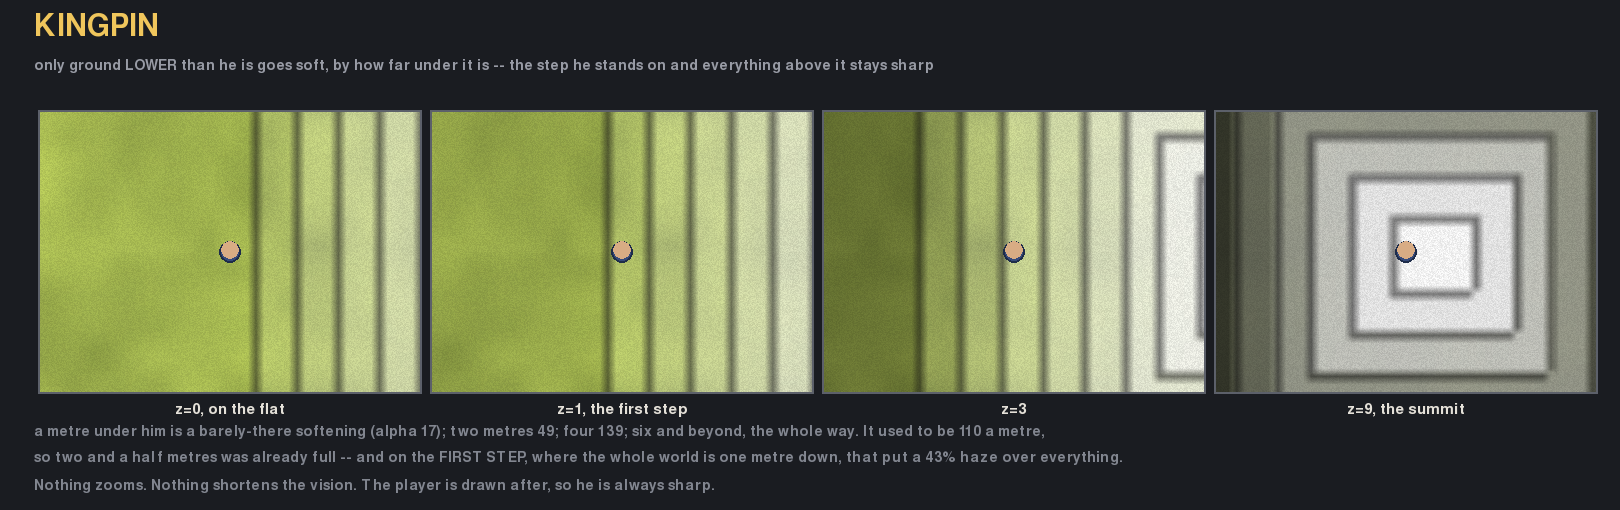
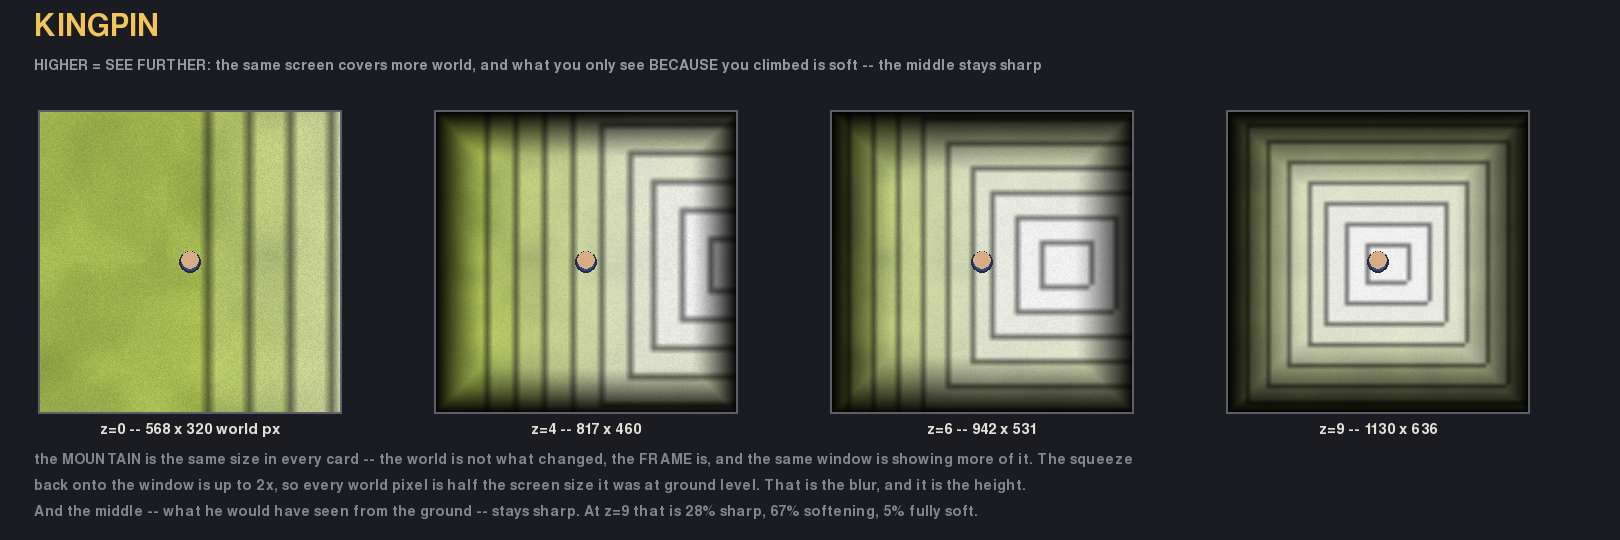
height: SEEING FURTHER, which I had inverted -- and the blur is a gradient
What was asked for, and what I had built, were opposites.

    IF A PERSON IS HIGHER, THE SAME SCREEN-SPACE COVERS MORE BLOCKS, AND IT
    IS BLURRED ONLY BECAUSE IT IS SMALLER ON-SCREEN, AND SMALLER
    PROPORTIONALLY TO HEIGHT

That is a PULL-BACK with the softness coming out of the scale. I had removed
the pull-back entirely -- so a man nine metres up saw LESS than a man on the
flat, and the only thing height did was smear what was there. Exactly backwards.

    z     factor   frame px     world across   the middle that stays SHARP
    0     1.00      568x320       568 x 320     100%
    1     1.11      630x355       630 x 355      90%
    4     1.44      817x460       817 x 460      69%
    9     1.99     1130x636      1130 x 636      50%

The frame covers this much more world for every metre climbed, and every line
of the world reads vw and vh, so the ground, the trees, the people, the fences
and the blood all pull back with him without one of them being told about it.

AND THE BLUR IS A GRADIENT, NOT A WASH -- the other half of the complaint:

    z=1   sharp 84%   softening 16%   fully soft  0%
    z=4   sharp 50%   softening 47%   fully soft  3%
    z=9   sharp 28%   softening 67%   fully soft  5%

The middle of the frame is the ground he would have seen FROM THE GROUND --
1/factor of the half-width -- and it stays sharp. Beyond it is ground he can
only see because he climbed, and it softens all the way out. So it reads as
[…]

diff --git a/main.py b/main.py
@@ -4533,10 +4533,18 @@ def main() -> None:
         # belongs at the window's own size.
         scr_w, scr_h = vw, vh
         vw, vh = max(2, int(scr_w / ZOOM)), max(2, int(scr_h / ZOOM))
-        # THE HEIGHT. The frame covers MORE WORLD and is squeezed back onto the
-        # window at the blow-up below. Every line of the world -- ground, trees,
-        # people, fences, the vision mask, blood -- reads vw and vh, so every
-        # one of them climbs with him without being told about it.
+        # THE HEIGHT, WHICH IS SEEING FURTHER. The frame covers this much MORE
+        # WORLD for every metre he climbs -- the same screen space over more
+        # blocks, which is the thing that was asked for -- and it is squeezed
+        # back onto the window at the blow-up below. THE SQUEEZE IS THE BLUR,
+        # and it is proportional to the height BY CONSTRUCTION, because it IS
+        # the scale. Every line of the world reads vw and vh, so the ground,
+        # the trees, the people, the fences and the blood all pull back with
+        # him without one of them being told about it.
+        height_f = 1.0 + max(0.0, player.z) * HEIGHT_ZOOM
+        if height_f > 1.001:
+            vw = max(2, int(vw * height_f))
+            vh = max(2, int(vh * height_f))
         if view_surf is None or view_surf.get_size() != (vw, vh):
             view_surf = pygame.Surface((vw, vh))
         real_screen = screen
@@ -4557,10 +4565,10 @@ def main() -> None:
             cam_x = player.x - vw / 2.0
             cam_y = player.y - vh / 2.0
         draw_exterior(cam_x, cam_y, True)
-        # ...and everything BELOW him goes soft, once the whole frame is on the
-        # surface -- ground, trees, people and all, because it is one picture.
-        if player.z > 0.05:
-            effects.depth_blur(screen, cam_x, cam_y, player.z)
+        # ...and what he can only see BECAUSE he climbed goes soft, in a
+        # gradient out from the middle. What is under his feet stays sharp.
+        if height_f > 1.001:
+            effects.radial_blur(screen, height_f)
         draw_news(screen, cam_x, cam_y, vw, vh)   # the bubble, over his head
         draw_villages = villages.visible(cam_x, cam_y, vw, vh)
         draw_trees = trees.visible(cam_x, cam_y, vw, vh)
@@ -4634,10 +4642,9 @@ def main() -> None:
             # kept the last frame it had. That is what "it freezes instead of
             # showing a game over screen" was: a correct panel, drawn offscreen.
             screen = real_screen
-            if player.z > 0.05:
-                # SMOOTH, SO THE WHOLE PICTURE IS OUT OF FOCUS -- the ground
-                # and the trees and the men together. Drawing a sharp world and
-                # a blurry map beside it is what made the trees disappear.
+            if height_f > 1.001:
+                # SMOOTH, because the frame is bigger than the window and THE
+                # SQUEEZE IS WHERE THE SOFTNESS COMES FROM.
                 pygame.transform.smoothscale(view_surf, (scr_w, scr_h), screen)
             else:
                 pygame.transform.scale(view_surf, (scr_w, scr_h), screen)
@@ -4668,10 +4675,9 @@ def main() -> None:
 
             # ---- ...and back to the window ---------------------------------
             screen = real_screen
-            if player.z > 0.05:
-                # SMOOTH, SO THE WHOLE PICTURE IS OUT OF FOCUS -- the ground
-                # and the trees and the men together. Drawing a sharp world and
-                # a blurry map beside it is what made the trees disappear.
+            if height_f > 1.001:
+                # SMOOTH, because the frame is bigger than the window and THE
+                # SQUEEZE IS WHERE THE SOFTNESS COMES FROM.
                 pygame.transform.smoothscale(view_surf, (scr_w, scr_h), screen)
             else:
                 pygame.transform.scale(view_surf, (scr_w, scr_h), screen)

diff --git a/effects.py b/effects.py
@@ -145,19 +145,61 @@ class DamageVignette:
 LEVEL_GOLD = (250, 216, 128)
 
 
-_BLUR_MASK_STEP = 4          # the mask is built one sample per 4x4 pixels
-# HOW FAR BELOW HIM THE GROUND HAS TO BE TO BE FULLY SOFT. The first cut put
-# the drop straight into the alpha at 110 a metre, so TWO AND A HALF METRES WAS
-# ALREADY THE WHOLE WAY -- and standing on the FIRST STEP, where the entire
-# world is one metre under his feet, laid a 43% haze over the whole screen with
-# one small sharp patch on it. That is what "the entire image blurs" was, and
-# what "the field of view shortens to where I am" was: the same bug from two
-# sides, because everything past his own step was equally soft and there was
-# nothing to see out there.
-#
-# Against the 1.5 power below, a metre under is 7% and barely there, two metres
-# is 19%, four is 55%, and six is the whole way. A gradient, not a fog.
-_BLUR_FULL_AT = 6.0
+# THE SOFT COPY IS MADE AT THIS FRACTION of the frame and scaled back up. How
+# far down it goes IS how soft it is -- see radial_blur.
+_BLUR_DOWN = 12
+
+
+def radial_blur(surface: pygame.Surface, zoom: float) -> None:
+    """THE FURTHER FROM HIM, THE SOFTER -- and how soft scales with the pull-back.
+
+    zoom is how much MORE WORLD the frame is covering than it would at ground
+    level: 1.0 on the flat, 1.99 at nine metres. Everything on screen has been
+    squeezed by that factor, so everything is a little softer than it was --
+    that IS the blur, and it comes for free from scaling the frame down.
+
+    What this adds is a GRADIENT, so it is not one flat wash. The middle of the
+    frame is the ground he would have seen from the ground -- 1/zoom of the
+    half-width -- and it stays SHARP. Beyond that is ground he can only see
+    because he climbed, and it goes soft, all the way to fully soft at the edge.
+
+        z=1   zoom 1.11   the middle 90% of the frame is sharp
+        z=4   zoom 1.44   the middle 69%
+        z=9   zoom 1.99   the middle 50%
+
+    So it reads as distance rather than as fog: what is under his feet is crisp
+    and what he is looking at from a hilltop is not.
+    """
+    if zoom <= 1.001:
+        return
+    w, h = surface.get_size()
+    st = 4                         # a coarse mask; it varies smoothly
+    mw = max(2, w // st)
+    mh = max(2, h // st)
+    xs = (np.arange(mw, dtype=np.float32) + 0.5) * st
+    ys = (np.arange(mh, dtype=np.float32) + 0.5) * st
+    # a SQUARE radius, so the sharp region is the shape of the frame and not a
+    # circle floating in the middle of it
+    px = np.abs(xs - w * 0.5) / (w * 0.5)
+    py = np.abs(ys - h * 0.5) / (h * 0.5)
+    p = np.maximum(px[None, :], py[:, None])
+    near = 1.0 / zoom
+    t = np.clip((p - near) / max(1e-3, 1.0 - near), 0.0, 1.0)
+    if not t.any():
+        return
+    soft = pygame.Surface((w, h), pygame.SRCALPHA)
+    soft.blit(pygame.transform.smoothscale(
+        pygame.transform.smoothscale(surface, (max(2, w // _BLUR_DOWN),
+                                               max(2, h // _BLUR_DOWN))),
+        (w, h)), (0, 0))
+    mask = pygame.Surface((mw, mh), pygame.SRCALPHA)
+    alpha = pygame.surfarray.pixels_alpha(mask)
+    alpha[:, :] = (255.0 * t ** 1.2).astype(np.uint8).T
+    del alpha
+    if (mw, mh) != (w, h):
+        mask = pygame.transform.smoothscale(mask, (w, h))
+    soft.blit(mask, (0, 0), special_flags=pygame.BLEND_RGBA_MULT)
+    surface.blit(soft, (0, 0))
 
 
 def draw_level_up(screen: pygame.Surface, sx: float, sy: float,
